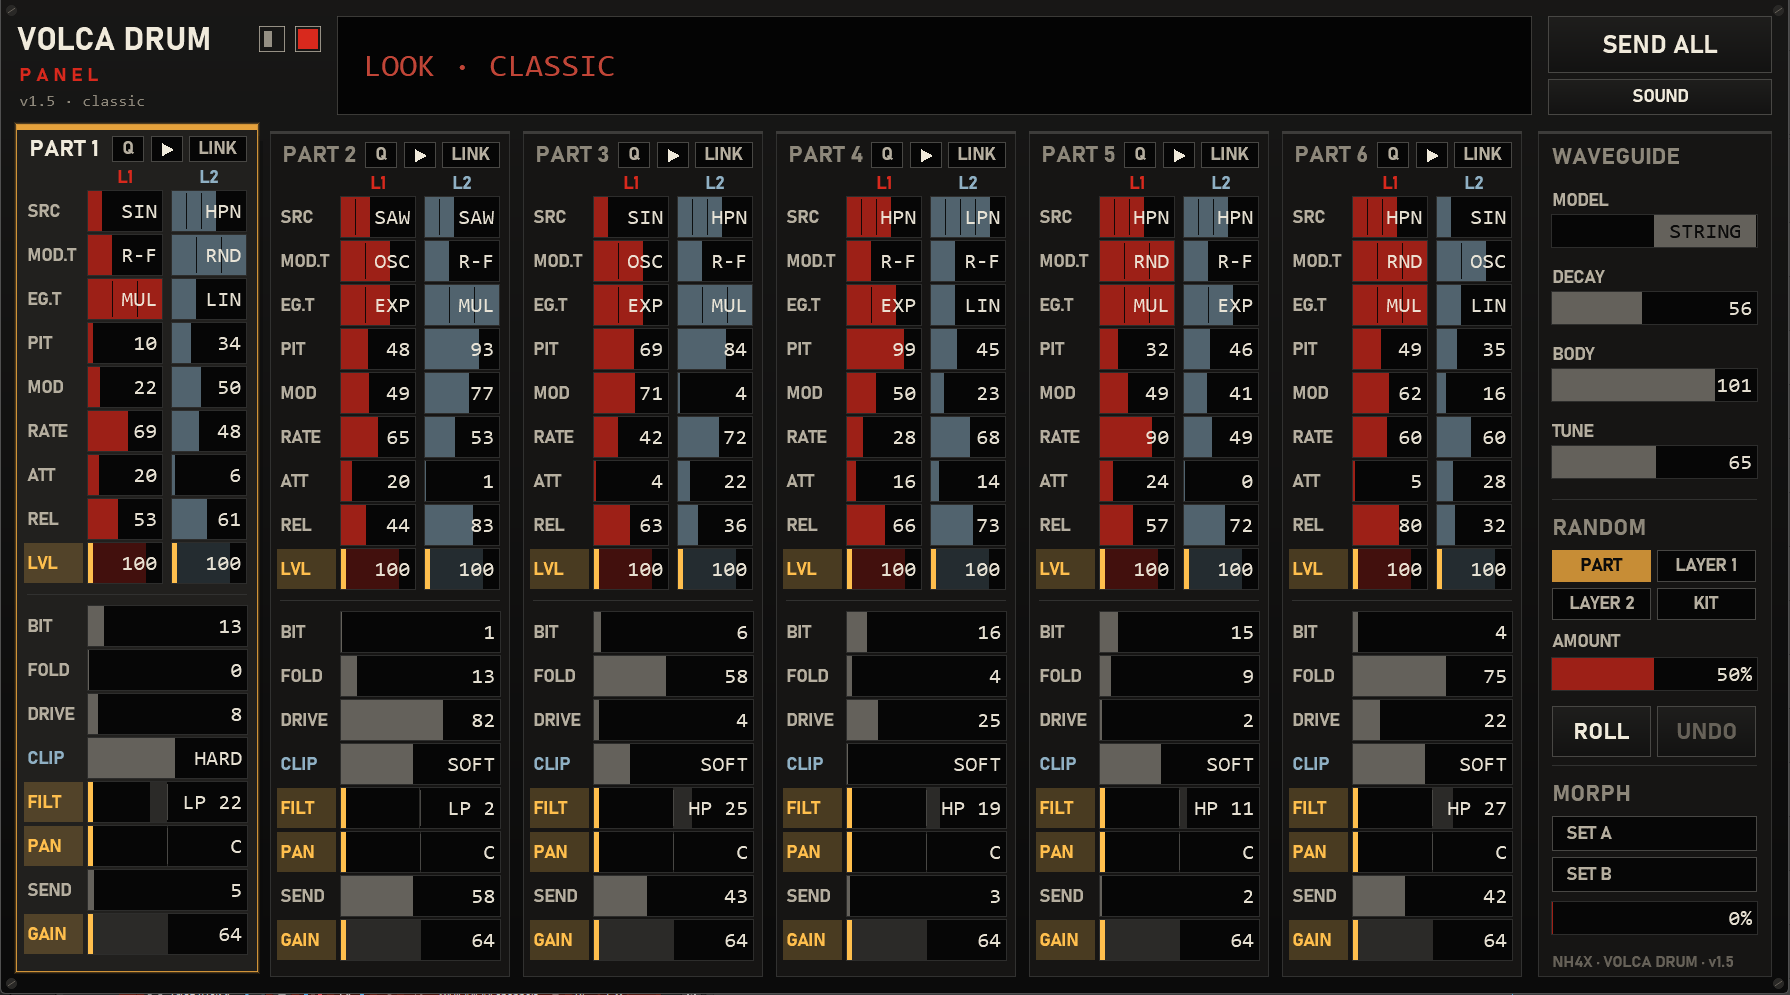
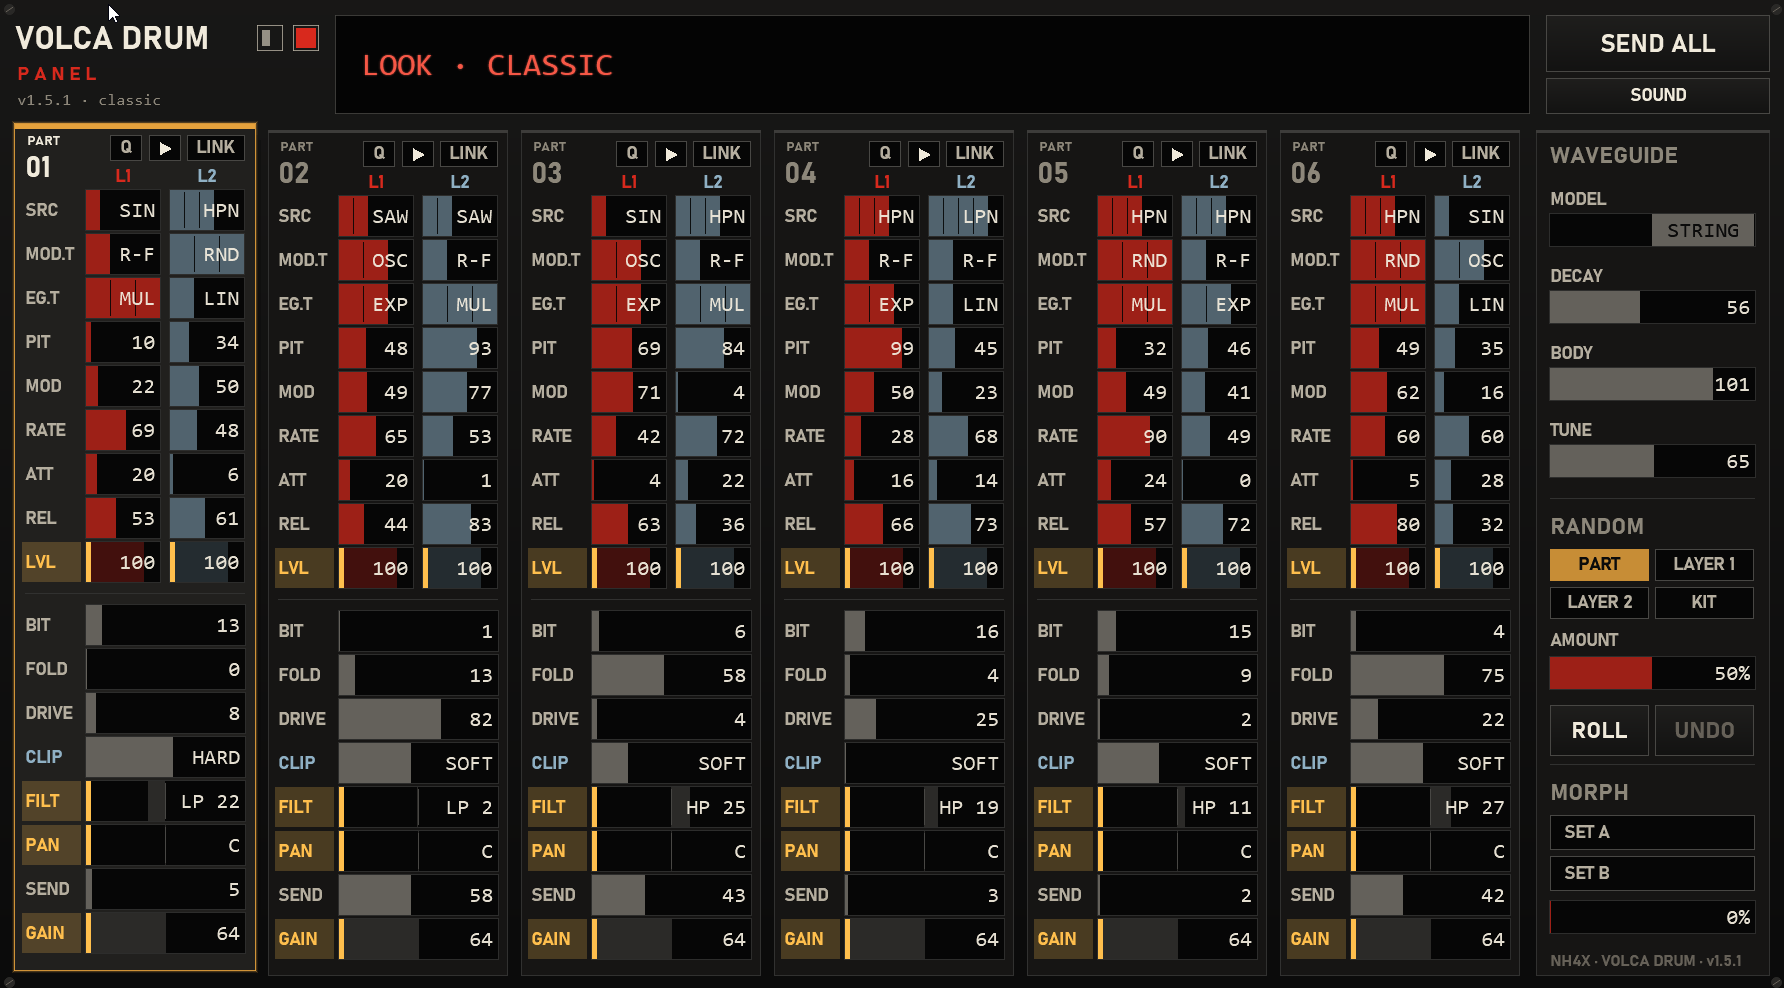
1.5.1: Classic part titles fit at any window size

diff --git a/README.md b/README.md
@@ -2,7 +2,7 @@
 
 A free editor for the **Korg volca drum** inside REAPER, as one JSFX file. All parameters of all 6 parts and the waveguide on one screen, with a big readout that shows what you just changed in plain words (e.g. `SAW · OSCILLATE · EXP` instead of a raw number).
 
-By NH4X. Version 1.5. Music: https://nh4x.bandcamp.com/
+By NH4X. Version 1.5.1. Music: https://nh4x.bandcamp.com/
 
 ![Volca Drum Panel in REAPER](screenshot.png)
 
@@ -102,6 +102,7 @@ Not tested by me, but it should work: **ysfx** is a free, open-source plugin tha
 A step sequencer for the volca drum is on its way, in this same ReaPack repository. With it, more parts of the panel come alive: sound files (save / load / rename / delete a part from the SOUND menu), kit scripts (save, next, previous, kit names in the display and in MORPH), a kit per sequencer pattern, p-locks, and **Q** following the sequencer's pitch lanes. Until then these parts simply stay quiet.
 
 ## Changes
+- 1.5.1: Classic look: part titles = small PART label + big number, so they fit at any window size.
 - 1.5: Select split into SRC / MOD.T / EG.T rows. Two looks + 14 color themes, test hit and Q (QPI) per part, tooltips, notes on channel 11-16 play parts melodically, FILT locked for ROLL by default. Install via ReaPack.
 - 1.0.1: Select (SEL) is easier to set with the mouse: slow relative drag, wheel = one combination per notch.
 - 1.0: first release.
